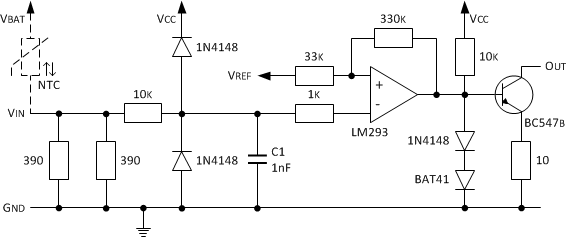
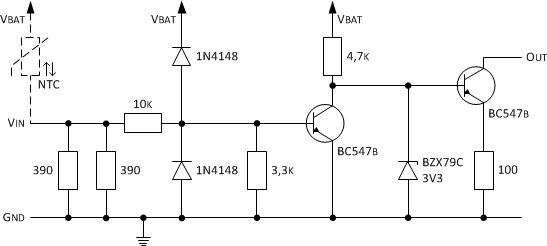
Update Fuel level table

diff --git a/pages/benzinstandsanzeige.md b/pages/benzinstandsanzeige.md
@@ -12,7 +12,7 @@ Aufgrund der Kaltleitereigenschaft einer Glühlampe kommt es zu einem zügigen U
 
 Die Bauteile unterliegen zwar einer Exemplarstreuung, doch durch die venwendete kombination aus Heißleiter-Sensor und Glühlampen-Kaltleiter kann eine sehr steile Kennlinie für einen bestimmten Temperaturbereich erzielt werden. 
 
-Es wurde folgende Messwerte (bei einer Batteriespannung von 12,6V) aufgenommen:
+Es wurden folgende Messwerte (bei einer Batteriespannung von 12,6V) aufgenommen:
 
 Tank | Strom | Spannung am Geber | Spannung a.d. Glühlampe
 ---- | ----- | ----------------- | --------------------------
@@ -26,21 +26,15 @@ Wie bereits weiter oben beschrieben verhält sich der Benzinstandsgeber der Duca
 
 ![Benzinstandsanzeige](../images/Benzinstandsanzeige_2.png)
 
-Der Invertierende [Schmitt-Trigger](http://de.wikipedia.org/wiki/Schmitt-Trigger) wird mit Hilfe eines Komparators ([LM293.pdf](http://www.ti.com/lit/ds/symlink/lm393a.pdf)) realisiert.
+Die Benzinstandsanzeige wird mit Hilfe eines zweistufig invertierenden Schaltverstärker realisiert. Das Eingangssignal wird mittels eines Spannungsteilers an die Basis des Transistors der ersten Schaltstufe angelegt. Die Umschaltspannung soll bei Vu = 3V liegen. Das Verhältnis zwischen Vu und Vbe (= 0,7V) bestimmt das Verhältnis der Widerstandswerte:
 
-Die Referenzspannung wird mittels einer Z-Diode von 4,3V über einen Eingangswiderstand am positiven Eingang des Komperators angelegt. Ein zusätzlicher Widerstand (hier 330k) sorgt für die Mitkopplung und damit für die Hysterese welche im Verhältnis zum Einsgangswiderstand berechnet wird (bei Single Supply und Rh >> R(pullup)).
+    R1 = R2 * (Vu/Vbe - 1)
+       = 3,3k * (3V/0,7V - 1)
+       = 10k
 
-    R(hys) = Re * (Vcc/(V(high)-V(low)) - 1)
+Mit einem Eingangswiderstandswert von 10k und einem Widerstand von 3,3k gegen Masse fließt bei Nutzung einer Versorgungsspannung von Vbat = 8..35V ein ausreichend großer aber nicht zu großer Basisstrom durch den Transistor der ersten Schaltstufe. Sobald am Eingang die Spannung von 3V unterschritten wird, sperrt der Transistor und am Ausgang liegt der 100 Ohm Widerstand über den Transistor der zweiten Stufe gegen Masse. Sofern die 3V überschritten werden leitet der Transistor der ersten Stufe und der Transitor der zweiten Stufe sperrt. Der Ausgang ist somit unbeschaltet.
 
-Um die Hysterese Anhand der Widerstandswerte zu berechnen kann folgende vereinfachte Formel verwendet werden (Single Supply, Rh >> R(pullup) und Vref = Vcc/2):
-
-    V(hys) = Vref * Re/(Re + R(hys)) = V(high) - V(low)
-
-Mit einem Eingangswiderstandswert von 33k und einem Widerstand von 330k für die Hysterese, wird bei Nutzung einer Versorgungsspannung von Vcc = 8,6V und einer Referenzspannung von 4,3V folgendes Verhalten erzielt:
-- Sobald am Eingang die Spannung von 3,9V unterschritten wird (Vin < V(low)), geht der Komperator in die positive Sättigung und der NPN Transistor leitet. Am Ausgang liegt ein 10 Ohm Widerstand gegen Masse.
-- Sofern 4,7V überschritten werden (Vin > V(high)), geht der Komperator in die negative Sättigung und der Transitor sperrt. Der Ausgang ist somit unbeschaltet.
-
-Die in Serie geschaltete Schottky Diode BAT41 und Kleinsignaldiode 1N4148 dienen als Strombegrenzung (ca. 30mA) für den 10 Ohm Widerstand, sprich den über Ausgang _Out_ zugeführten Strom.
+Die 3,3V Z-Diode dient als Strombegrenzung (ca. 25-30mA) für den 100 Ohm Widerstand, sprich den über Ausgang _Out_ zugeführten Strom.
 
 ## Quellen und weiterführende Literatur
 
